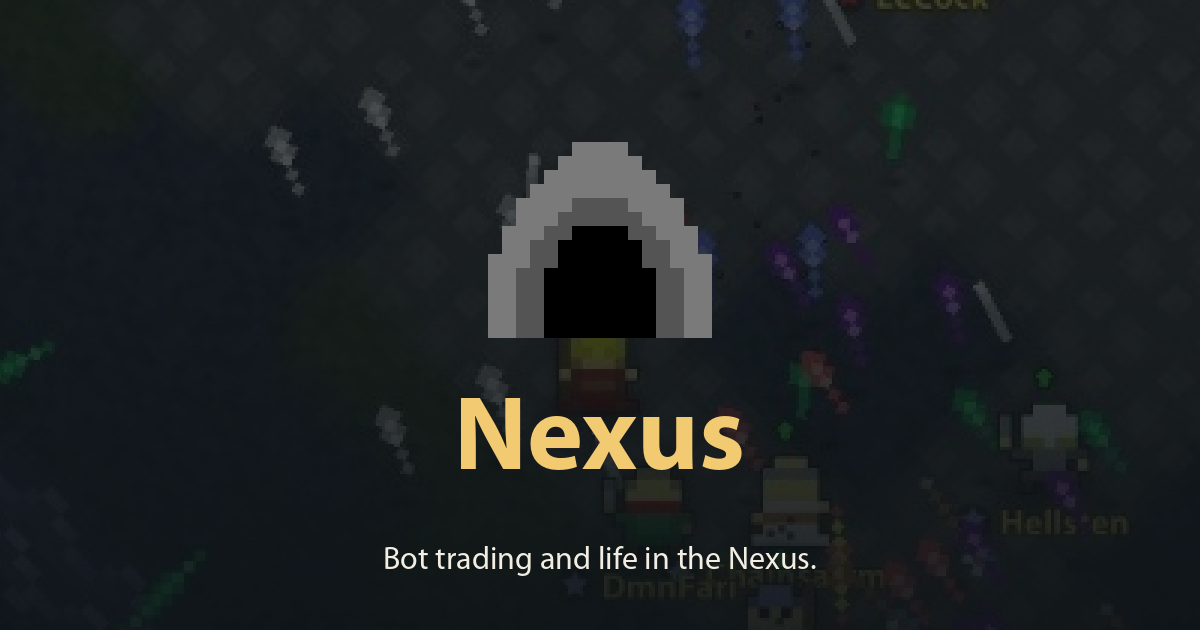
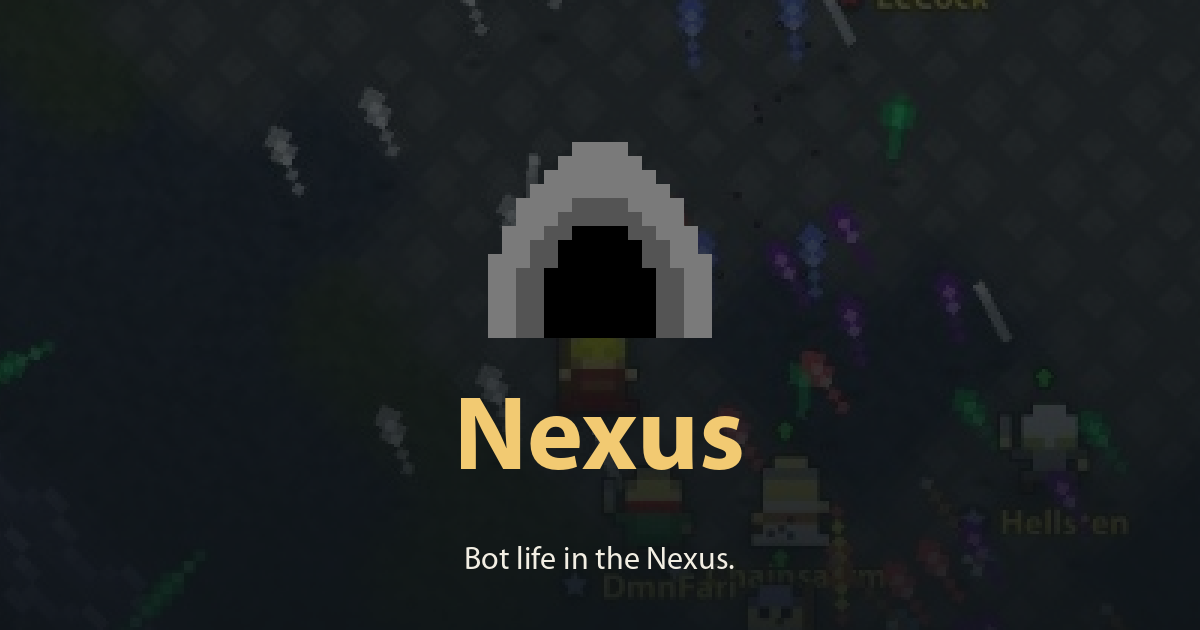
Give bot trading its own /bots/ section
Trading rows move from Nexus to a new Trading section, with the owner's 2012
trading model as new rows: rebuilding after a death with saved potions, selling
unneeded drops, clearing a full Vault, swapping potions and wealth-relative
loot pickup. Rows without footage keep a blank Bots cell.

Changed region(s): [[0.3083, 0.8444, 0.6783, 0.9048]]

diff --git a/public/bots/trading/index.html b/public/bots/trading/index.html
@@ -1,0 +1,41 @@
+<!doctype html>
+<html lang="en">
+<head>
+  <meta charset="utf-8">
+  <meta name="viewport" content="width=device-width,initial-scale=1">
+  <meta http-equiv="Content-Security-Policy" content="default-src 'self'; style-src 'self'; img-src 'self'; object-src 'none'; base-uri 'none'">
+  <title>Trading · Open RotMG</title>
+  <meta name="description" content="Compare Open RotMG bot trading with footage of 2012 Realm of the Mad God players.">
+  <link rel="canonical" href="{{SITE_URL}}bots/trading/">
+  <meta name="theme-color" content="#000000">
+  <link rel="stylesheet" href="{{BASE}}style.css">
+  <link rel="stylesheet" href="{{BASE}}about/style.css">
+  <link rel="stylesheet" href="../style.css">
+</head>
+<body class="about-page">
+<div class="site-shell">
+  <main class="page-main">
+    <p class="crumb"><a href="../">Bots</a></p>
+    <div class="quiet-heading"><img src="{{BASE}}restoration/assets/player/potion-of-defense.png" alt=""><h1>Trading</h1></div>
+    <table>
+      <thead><tr><th>2012 behaviour</th><th>Footage</th><th>Bots</th><th>Notes</th></tr></thead>
+      <tbody>
+        <tr><td>Trades actually happen</td><td><a href="https://www.youtube.com/watch?v=Ex_Ix3dlB4U&amp;t=290s">Ex_Ix3dlB4U 4:50</a></td><td class="no">No</td><td>No bot-to-bot trade has completed; 34 of 34 bot sessions in 3 hours ended without a buyer</td></tr>
+        <tr><td>Gear is paid for in potions; big trades in Paramount Defense, Resurrection or Wine Cellar</td><td><a href="https://www.youtube.com/watch?v=Ex_Ix3dlB4U&amp;t=85s">Ex_Ix3dlB4U 1:25</a></td><td class="partly">Partly</td><td>Bot ads ask for potions or money items (#1286), but none complete</td></tr>
+        <tr><td>Short, repeated slang ads: <q>wts def 4 spd</q>, <q>S&gt;Gbow</q></td><td><a href="https://www.youtube.com/watch?v=0z30kcUD1Pc&amp;t=42s">0z30kcUD1Pc 0:42</a><br><a href="https://www.youtube.com/watch?v=Ex_Ix3dlB4U&amp;t=85s">Ex_Ix3dlB4U 1:25</a></td><td class="partly">Partly</td><td>About 330 ads per hour; variety not checked</td></tr>
+        <tr><td>Potions are swapped: 4 Speed up to 1 Defense to save Vault space, or Defense down to Speed while maxing</td><td><a href="https://www.youtube.com/watch?v=Ex_Ix3dlB4U&amp;t=85s">Ex_Ix3dlB4U 1:25</a></td><td class="no">No</td><td>No potion-for-potion bot trades</td></tr>
+        <tr><td>After a death, saved potions buy a weapon, ability and armor; shopping can take 20 minutes</td><td>None</td><td></td><td></td></tr>
+        <tr><td>A valuable drop the player can't use is sold, like a Doom Bow on a Knight</td><td>None</td><td></td><td></td></tr>
+        <tr><td>A full Vault gets sold off or cleared; Vault items are fetched for a buyer</td><td>None</td><td></td><td></td></tr>
+        <tr><td>Loot pickup depends on wealth: nearly anything when poor, only the best bags when rich</td><td>None</td><td></td><td></td></tr>
+      </tbody>
+    </table>
+  </main>
+  <footer class="site-footer">
+    <p class="site-signature"><img src="{{BASE}}amulet-of-resurrection.png" width="17" height="17" alt="">Open RotMG</p>
+    <p>2012 Realm of the Mad God reimplementation</p>
+    <nav aria-label="Project">{{PROJECT_NAV}}</nav>
+  </footer>
+</div>
+</body>
+</html>

diff --git a/public/bots/index.html b/public/bots/index.html
@@ -18,7 +18,7 @@
     <div class="quiet-heading"><img src="{{BASE}}restoration/assets/player/warrior.png" alt=""><h1>Bots</h1></div>
     <div class="quiet-columns">
       <section><h2>Places</h2><ul class="link-rows">
-        <li><a href="nexus/"><img src="{{BASE}}restoration/assets/player/nexus-portal.png" alt=""><span><strong>Nexus</strong><small>5 behaviours · 2 missing</small></span><b aria-hidden="true">↗</b></a></li>
+        <li><a href="nexus/"><img src="{{BASE}}restoration/assets/player/nexus-portal.png" alt=""><span><strong>Nexus</strong><small>2 behaviours · 1 missing</small></span><b aria-hidden="true">↗</b></a></li>
         <li><span class="unlisted"><img src="{{BASE}}restoration/assets/player/ent.png" alt=""><span><strong>Realm travel</strong><small>Not listed yet</small></span></span></li>
         <li><a href="godlands/"><img src="{{BASE}}restoration/assets/player/ent-god.png" alt=""><span><strong>Godlands</strong><small>4 behaviours · 1 missing · 2 need footage</small></span><b aria-hidden="true">↗</b></a></li>
         <li><span class="unlisted"><img src="{{BASE}}restoration/assets/player/vault-chest.png" alt=""><span><strong>Vault</strong><small>Not listed yet</small></span></span></li>
@@ -26,6 +26,7 @@
       </ul></section>
       <section><h2>Situations</h2><ul class="link-rows">
         <li><a href="groups/"><img src="{{BASE}}restoration/assets/player/archer.png" alt=""><span><strong>Groups</strong><small>5 behaviours · 3 missing · 1 need footage</small></span><b aria-hidden="true">↗</b></a></li>
+        <li><a href="trading/"><img src="{{BASE}}restoration/assets/player/potion-of-defense.png" alt=""><span><strong>Trading</strong><small>8 behaviours · 2 missing · 4 need footage</small></span><b aria-hidden="true">↗</b></a></li>
         <li><a href="combat/"><img src="{{BASE}}restoration/assets/player/short-sword.png" alt=""><span><strong>Combat</strong><small>3 behaviours · 3 need footage</small></span><b aria-hidden="true">↗</b></a></li>
         <li><span class="unlisted"><img src="{{BASE}}restoration/assets/player/oryx-the-mad-god-1.png" alt=""><span><strong>Boss fights</strong><small>Not listed yet</small></span></span></li>
         <li><span class="unlisted"><img src="{{BASE}}restoration/assets/player/gravestone.png" alt=""><span><strong>Death and rebuilding</strong><small>Not listed yet</small></span></span></li>

diff --git a/public/bots/nexus/index.html b/public/bots/nexus/index.html
@@ -5,7 +5,7 @@
   <meta name="viewport" content="width=device-width,initial-scale=1">
   <meta http-equiv="Content-Security-Policy" content="default-src 'self'; style-src 'self'; img-src 'self'; object-src 'none'; base-uri 'none'">
   <title>Nexus · Open RotMG</title>
-  <meta name="description" content="Compare Open RotMG bot trading and Nexus behaviour with footage of 2012 Realm of the Mad God players.">
+  <meta name="description" content="Compare Open RotMG bot Nexus behaviour with footage of 2012 Realm of the Mad God players.">
   <link rel="canonical" href="{{SITE_URL}}bots/nexus/">
   <meta name="theme-color" content="#000000">
   <link rel="stylesheet" href="{{BASE}}style.css">
@@ -20,9 +20,6 @@
     <table>
       <thead><tr><th>2012 behaviour</th><th>Footage</th><th>Bots</th><th>Notes</th></tr></thead>
       <tbody>
-        <tr><td>Trades actually happen</td><td><a href="https://www.youtube.com/watch?v=Ex_Ix3dlB4U&amp;t=290s">Ex_Ix3dlB4U 4:50</a></td><td class="no">No</td><td>0 bot trades per hour</td></tr>
-        <tr><td>Short, repeated slang ads: <q>wts def 4 spd</q>, <q>S&gt;Gbow</q></td><td><a href="https://www.youtube.com/watch?v=0z30kcUD1Pc&amp;t=42s">0z30kcUD1Pc 0:42</a><br><a href="https://www.youtube.com/watch?v=Ex_Ix3dlB4U&amp;t=85s">Ex_Ix3dlB4U 1:25</a></td><td class="partly">Partly</td><td>About 330 ads per hour; variety not checked</td></tr>
-        <tr><td>Potions are the main currency: 4 Speed for 1 Defense, Defense up to Life</td><td><a href="https://www.youtube.com/watch?v=Ex_Ix3dlB4U&amp;t=85s">Ex_Ix3dlB4U 1:25</a></td><td class="unknown">Unknown</td><td></td></tr>
         <tr><td>Traders stand spread out, not in a clump</td><td><a href="https://www.youtube.com/watch?v=luV6wQzNZlg&amp;t=10s">luV6wQzNZlg 0:10</a></td><td class="unknown">Unknown</td><td></td></tr>
         <tr><td>Crowded, mostly low-star players</td><td><a href="https://www.youtube.com/watch?v=luV6wQzNZlg&amp;t=10s">luV6wQzNZlg 0:10</a></td><td class="no">No</td><td>3–6 of 60 bots in the Nexus at once</td></tr>
       </tbody>
